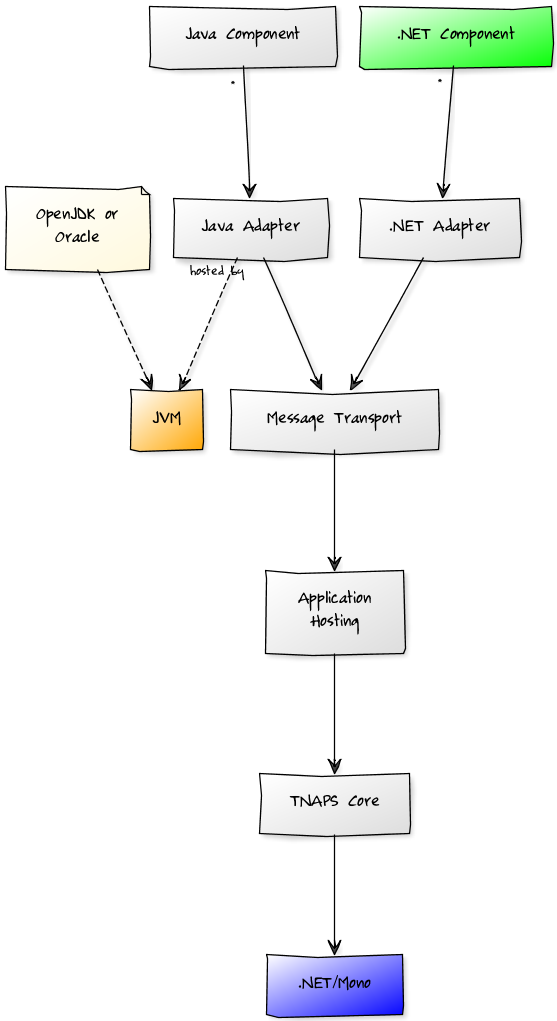
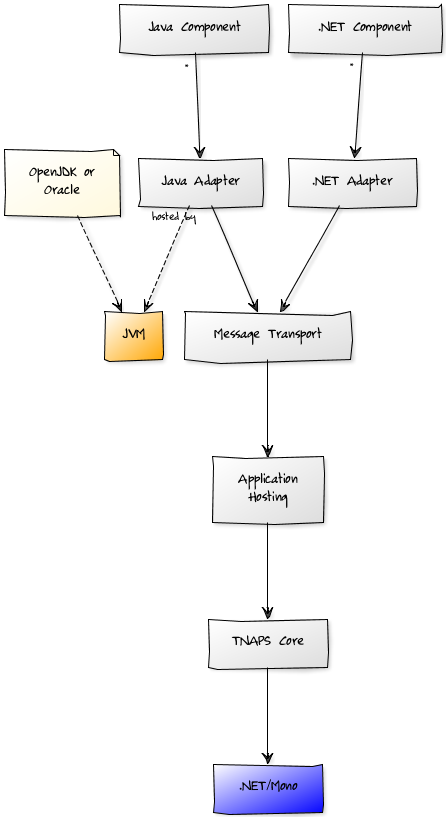
Regenerated diagrams and extended generation script

diff --git a/img/diagrams/yuml.rb b/img/diagrams/yuml.rb
@@ -1,6 +1,12 @@
+#!/usr/bin/ruby
+#
 require 'rubygems'
 require 'curb'
 require 'rio' 
+
+name = ARGV[0]
+yuml_name = name + ".yuml"
+img_name = name + ".png"
 
 def get_file_as_string(filename)
 	data = ''
@@ -14,12 +20,12 @@ end
 
 # POST DSL up to yUML
 #c = Curl::Easy.new("http://yuml.me/diagram/scruffy/class/")
-c = Curl::Easy.new("http://yuml.me/diagram/scruffy;dir:TB;scale:50;/class/")
+c = Curl::Easy.new("http://yuml.me/diagram/scruffy;scale:80;/class/")
 c.multipart_form_post = true
-file_data = get_file_as_string 'architecture.yuml'
+file_data = get_file_as_string yuml_name
 c.http_post(Curl::PostField.content("dsl_text",file_data))
 
 # Grab the ID, and then download img and save to disk
 img_id = c.body_str
 img = "http://yuml.me/#{img_id}"
-rio(img) > rio("img.png") 
+rio(img) > rio(img_name) 

diff --git a/img/diagrams/rb.rb b/img/diagrams/rb.rb
@@ -1,0 +1,8 @@
+#!/usr/bin/ruby
+#
+#
+ARGV.each do|a|
+	  puts "Argument: #{a}"
+end
+
+puts "wow " + ARGV[0] + "kb"
